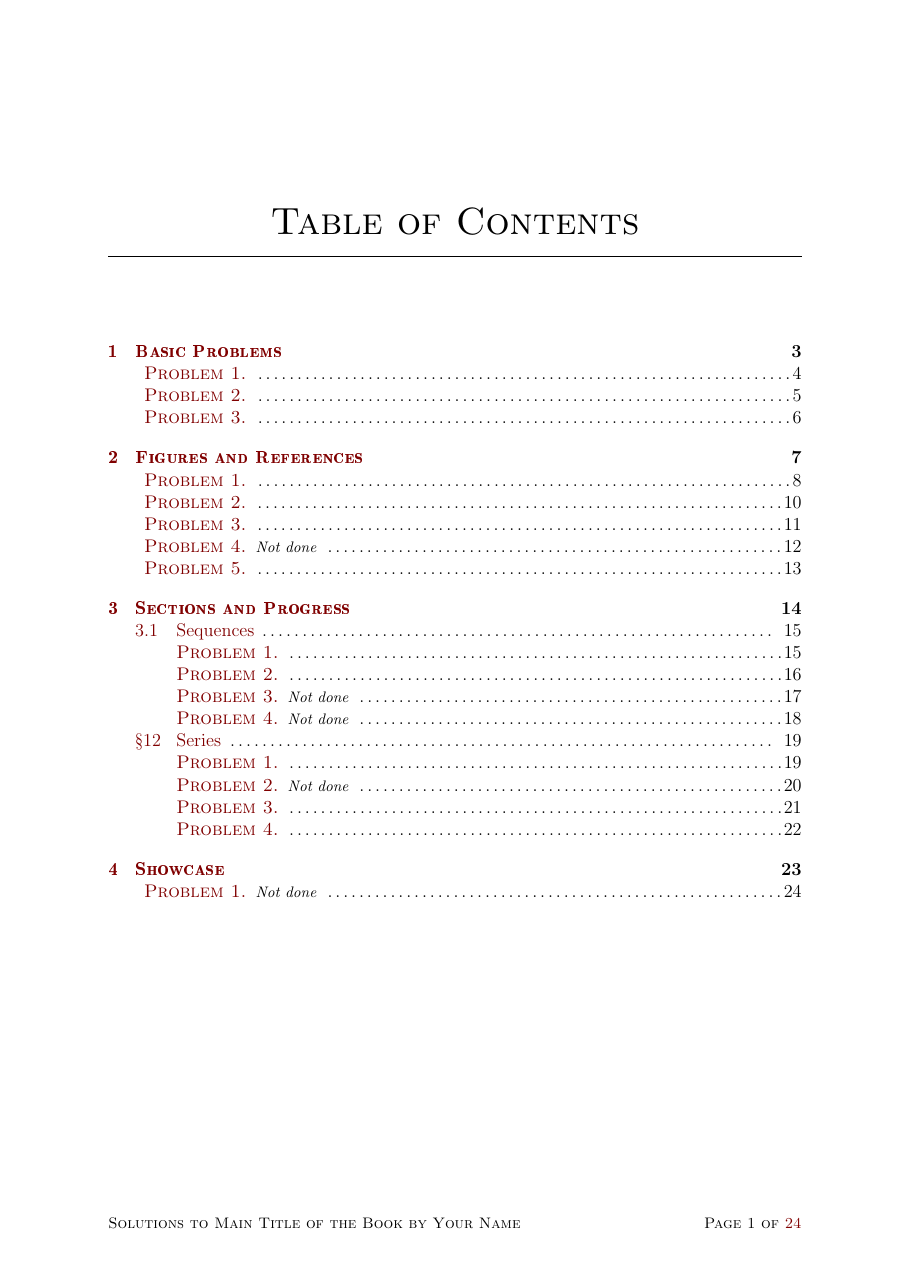
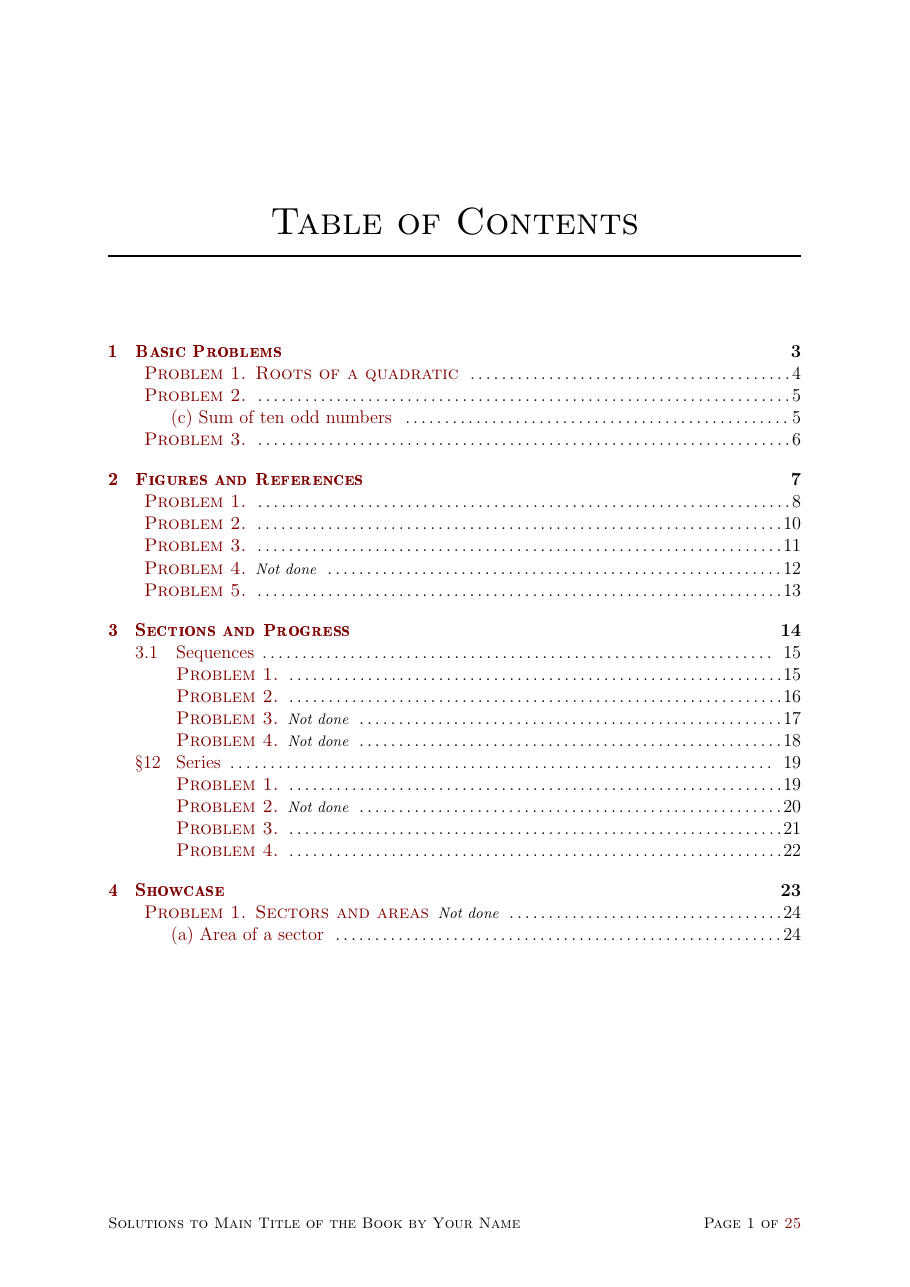
Prepare release 1.4.0

diff --git a/.github/scripts/release.py b/.github/scripts/release.py
@@ -52,18 +52,28 @@ def add_folder(archive, source, destination):
 def package_release(root, tag, output):
     notes = check_versions(root, tag)
     projects = {"starter": root, "showcase": root / "examples/showcase"}
+    pdf_assets = {
+        "main.pdf": root / "main.pdf",
+        "showcase.pdf": projects["showcase"] / "main.pdf",
+        "showcase-exercises.pdf": projects["showcase"] / "exercises.pdf",
+        "showcase-answers.pdf": projects["showcase"] / "answers.pdf",
+        "french.pdf": root / "examples/french/main.pdf",
+    }
     # Fail before packaging if a clean build did not produce all expected PDFs.
+    for pdf in pdf_assets.values():
+        if not pdf.is_file():
+            raise ValueError(f"Missing built PDF: {pdf}")
     for project in projects.values():
-        for pdf in [project / "main.pdf", *(
+        for pdf in (
             source.with_suffix(".pdf") for source in (project / "Figures").rglob("*.tex")
-        )]:
+        ):
             if not pdf.is_file():
                 raise ValueError(f"Missing built PDF: {pdf}")
 
     output.mkdir(parents=True, exist_ok=True)
     (output / "release-notes.md").write_text(notes, encoding="utf-8")
-    shutil.copyfile(root / "main.pdf", output / "main.pdf")
-    shutil.copyfile(projects["showcase"] / "main.pdf", output / "showcase.pdf")
+    for name, source in pdf_assets.items():
+        shutil.copyfile(source, output / name)
     with ZipFile(output / f"solution-manual-{tag}.zip", "w", ZIP_DEFLATED) as archive:
         add_folder(archive, root / "solution-manual", "solution-manual")
         # Keep the license inside the framework-only archive.

diff --git a/CHANGELOG.md b/CHANGELOG.md
@@ -7,8 +7,16 @@ and this project adheres to [Semantic Versioning](https://semver.org/spec/v2.0.0
 
 ## [Unreleased]
 
+## [1.4.0] - 2026-10-22
+
 ### Added
 
+- Solution modes: `solutions=shown` (default) prints the complete manual,
+  `solutions=hidden` prints questions only, and `solutions=answers only`
+  prints questions and final-answer boxes. Student editions omit worked
+  solutions, verifications and completion markers; `completion markers=true`
+  restores the markers and overview. `[show solution]` on a problem or part
+  keeps its worked response in place in any mode, for worked examples.
 - `solutions=answers at end`: the chapters show the questions, and the
   solutions, answer boxes and verifications are printed by the new
   `\printsolutions` command (or at the end of the document) in a starred
@@ -36,6 +44,8 @@ and this project adheres to [Semantic Versioning](https://semver.org/spec/v2.0.0
 - The JSON problem index starts with the `language` and the `labels` in use.
 - A French example project in `examples/french/` (two problems, one figure,
   babel), built by CI and uploaded as `french.pdf`.
+- Release assets now include `showcase-exercises.pdf`,
+  `showcase-answers.pdf` and `french.pdf`, built from the example projects.
 - Website builder, `solution-manual/site/build.py` (moved from
   Mechanics-Landau-Solution and generalized; Python 3.11+ and `pypdf`, pinned
   in `solution-manual/site/requirements.txt`). Run from a project root after
@@ -49,11 +59,11 @@ and this project adheres to [Semantic Versioning](https://semver.org/spec/v2.0.0
   by problem ID. The build checks the settings, the index against the PDF,
   titles and descriptions, the problem PDFs, every link and anchor, and the
   sitemap, and refuses a manual that is not in `shown` mode. See
-  `docs/website.md`. The starter, the showcase and the French example have a site,
-  built and checked by CI and uploaded as `starter-site`, `showcase-site` and
-  `french-site`; the starter's `site/site.toml` is there to edit. `editions = [...]` in `site.toml`
-  links editions from the homepage, each described by its solutions mode,
-  and checked against the manual.
+  `docs/website.md`. The starter, the showcase and the French example have a
+  site, built and checked by CI and uploaded as `starter-site`,
+  `showcase-site` and `french-site`; the starter's `site/site.toml` is there to
+  edit. `editions = [...]` in `site.toml` links editions from the homepage,
+  each described by its solutions mode and checked against the manual.
 - `.github/workflows/website.yml`: builds the manual and its website, and
   publishes it on GitHub Pages on each push to the default branch (pull
   requests and other branches: build and check only), with the figure PDFs
@@ -82,7 +92,6 @@ and this project adheres to [Semantic Versioning](https://semver.org/spec/v2.0.0
   Labels are printed without babel-french's automatic space before `:`.
 - `mytheme.sty` is loaded after `\SolutionManualSetup` is defined, so it can
   set the language.
-
 - The shared `latexmkrc` runs pdfLaTeX with `%P` instead of `%S`, so that
   pre-TeX code can be given; builds without it are unchanged.
 - Showcase: two questions no longer refer to a figure and an equation that
@@ -182,6 +191,8 @@ and this project adheres to [Semantic Versioning](https://semver.org/spec/v2.0.0
 - Continuous integration that builds the example manual and checks
   `COMPLETION.md`.
 
+[Unreleased]: https://github.com/pobol2/Solution-Manual-Template/compare/v1.4.0...HEAD
+[1.4.0]: https://github.com/pobol2/Solution-Manual-Template/compare/v1.3.0...v1.4.0
 [1.3.0]: https://github.com/pobol2/Solution-Manual-Template/compare/v1.2.0...v1.3.0
 [1.2.0]: https://github.com/pobol2/Solution-Manual-Template/compare/v1.1.0...v1.2.0
 [1.1.0]: https://github.com/pobol2/Solution-Manual-Template/compare/v1.0.0...v1.1.0

diff --git a/README.md b/README.md
@@ -14,8 +14,8 @@ problem and its exercise and answer editions, published by GitHub Actions.
 
 <p align="center">
   <img src="images/title.png" width="32%" alt="The title page">
-  <img src="images/contents.png" width="32%" alt="The table of contents, with problems marked not done">
-  <img src="images/showcase.png" width="32%" alt="A problem in parts with a TikZ and PGFPlots figure, answer boxes, a verification and a part not done">
+  <img src="images/contents.png" width="32%" alt="The table of contents, with problem and part titles and unfinished markers">
+  <img src="images/showcase.png" width="32%" alt="A titled problem and parts with a TikZ and PGFPlots figure, answer boxes, a verification and an unfinished marker">
 </p>
 
 ## Quick start
@@ -74,14 +74,15 @@ read [`CHANGELOG.md`](CHANGELOG.md) for the changes in the release.
 
 ## Features
 
-- [Problems and parts](docs/writing-problems.md) with solutions, answer boxes and optional verification.
+- [Problems and parts](docs/writing-problems.md) with optional titles, solutions, answer boxes and verification.
+- [Solution modes](docs/writing-problems.md): full solutions, questions only, final answers, or solutions collected at the end, with links back to the questions.
 - [Chapters, sections and numbering](docs/numbering-and-references.md), with textbook numbers and cross-references.
 - [Standalone figures](docs/figures.md) with TikZ, PGFPlots and CSV data, rebuilt when their sources change.
 - [Completion tracking](docs/completion-tracking.md), with unfinished markers, an overview and a Markdown report.
 - [Editions](docs/editions.md): exercise and answer books of the same sources, built with the manual.
 - [Website](docs/website.md): a static site with a catalogue of the problems and a page and a PDF per solved problem, for GitHub Pages or any host.
 - [Customization](docs/customization.md) of titles, labels, layout, colors and project commands.
-- [Languages](docs/customization.md#languages): English or French texts with `language=french`, with or without babel.
+- [Language presets](docs/customization.md#languages): English by default, French with `language=french`, with or without babel; add a language file to translate the labels.
 
 The [showcase project](examples/showcase/) contains the full set of examples,
 and the [French example](examples/french/) a small manual in French.
